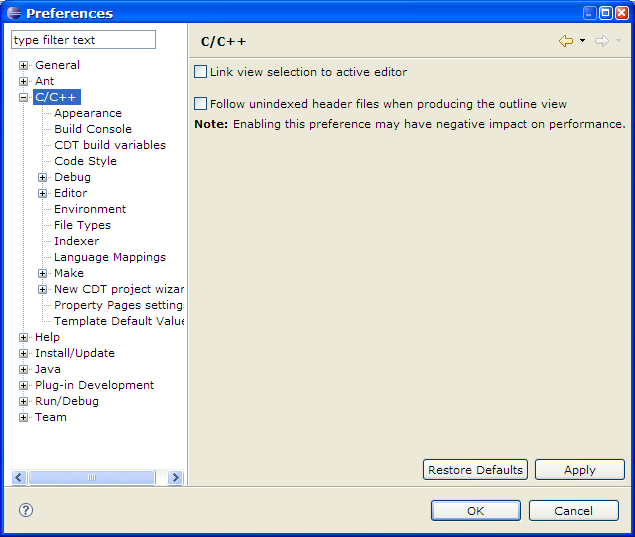
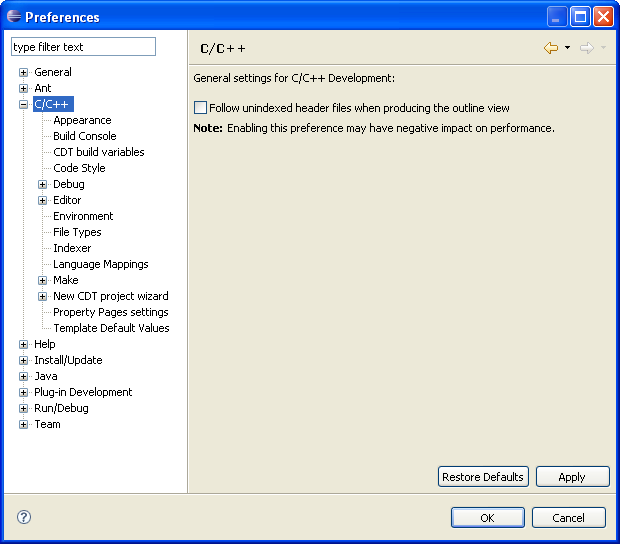
Bug 182672.

Changed region(s): [[0.0, 0.0, 1.0, 0.9832]]

diff --git a/all/org.eclipse.cdt.doc.user/reference/cdt_u_c_pref.htm b/all/org.eclipse.cdt.doc.user/reference/cdt_u_c_pref.htm
@@ -11,16 +11,22 @@
 
 <h1>C/C++ preferences</h1>
 
-<p>The C/C++ Preference dialog box allows you to make changes to your C/C++ environment.</p>
+<p>The <b>C/C++</b> preference dialog box allows you to make changes to your C/C++ environment.</p>
 <p><img src="../images/c_cpp_preferences.png" alt="C/C++ Main Preferences Window"></p>
-<dl>
-  <dt>Link view selection to active editor</dt>
-  <dd>Select this checkbox to open an item selected in the Projects view, in the Editor view.</dd>
-  <dt>Follow unindexed header files when producing the outline view.</dt>
-  <dd>Select this checkbox to follow all defined #includes when you produce the Outline view.<br>
-  	<b>Note: </b>This is not recommended for large projects or large files.</dd>
-  
-</dl>
+
+<table width="600px" cellpadding="5" cellspacing="0" border="1" >
+	<caption><b>C/C++ Preference Options</b></caption>
+	<colgroup>
+		<col width="30%" valign="top" >
+		<col width="70%" valign="top" >
+	</colgroup>
+	<tbody>
+		<tr>
+			<td width="30%" valign="top"><dt>Follow unindexed header files when producing the outline view</dt></td>
+			<td valign="top">Activate to do a more exhaustive search of header paths to build a more complete outline view.</td>
+		</tr>
+	</tbody>
+</table>
 
 <h2>C/C++ Submenu Items</h2>
 
